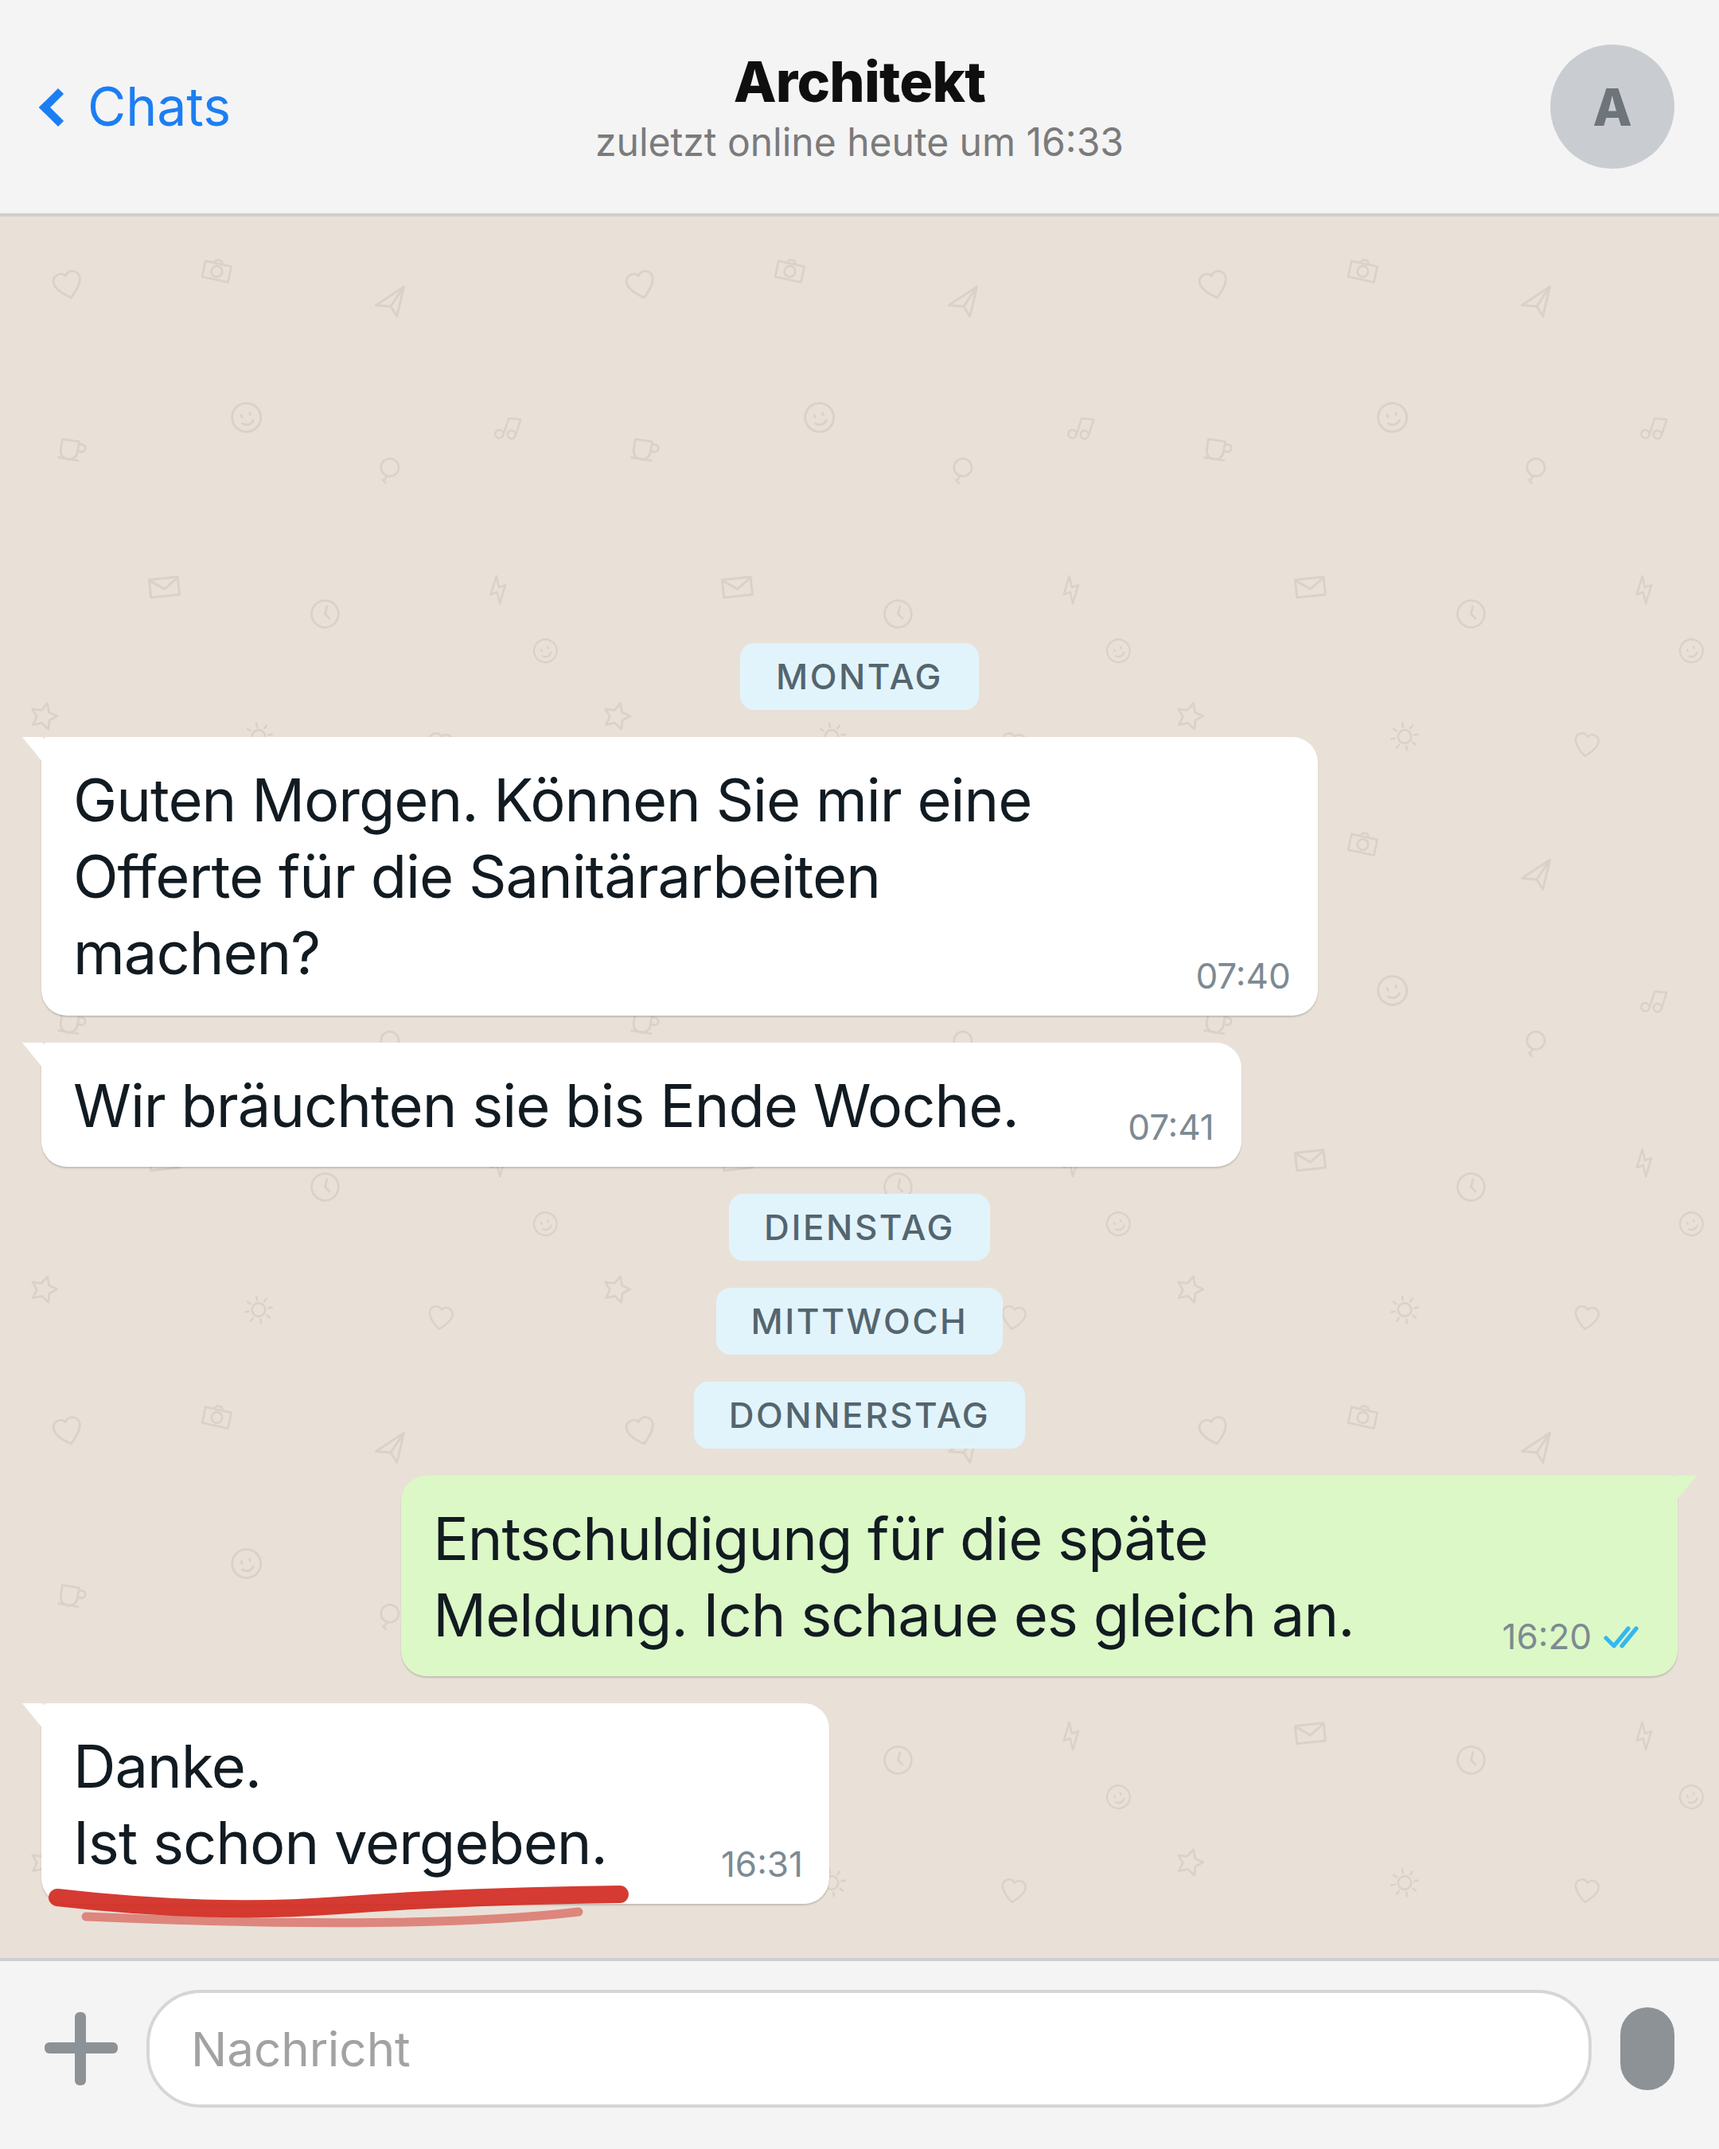
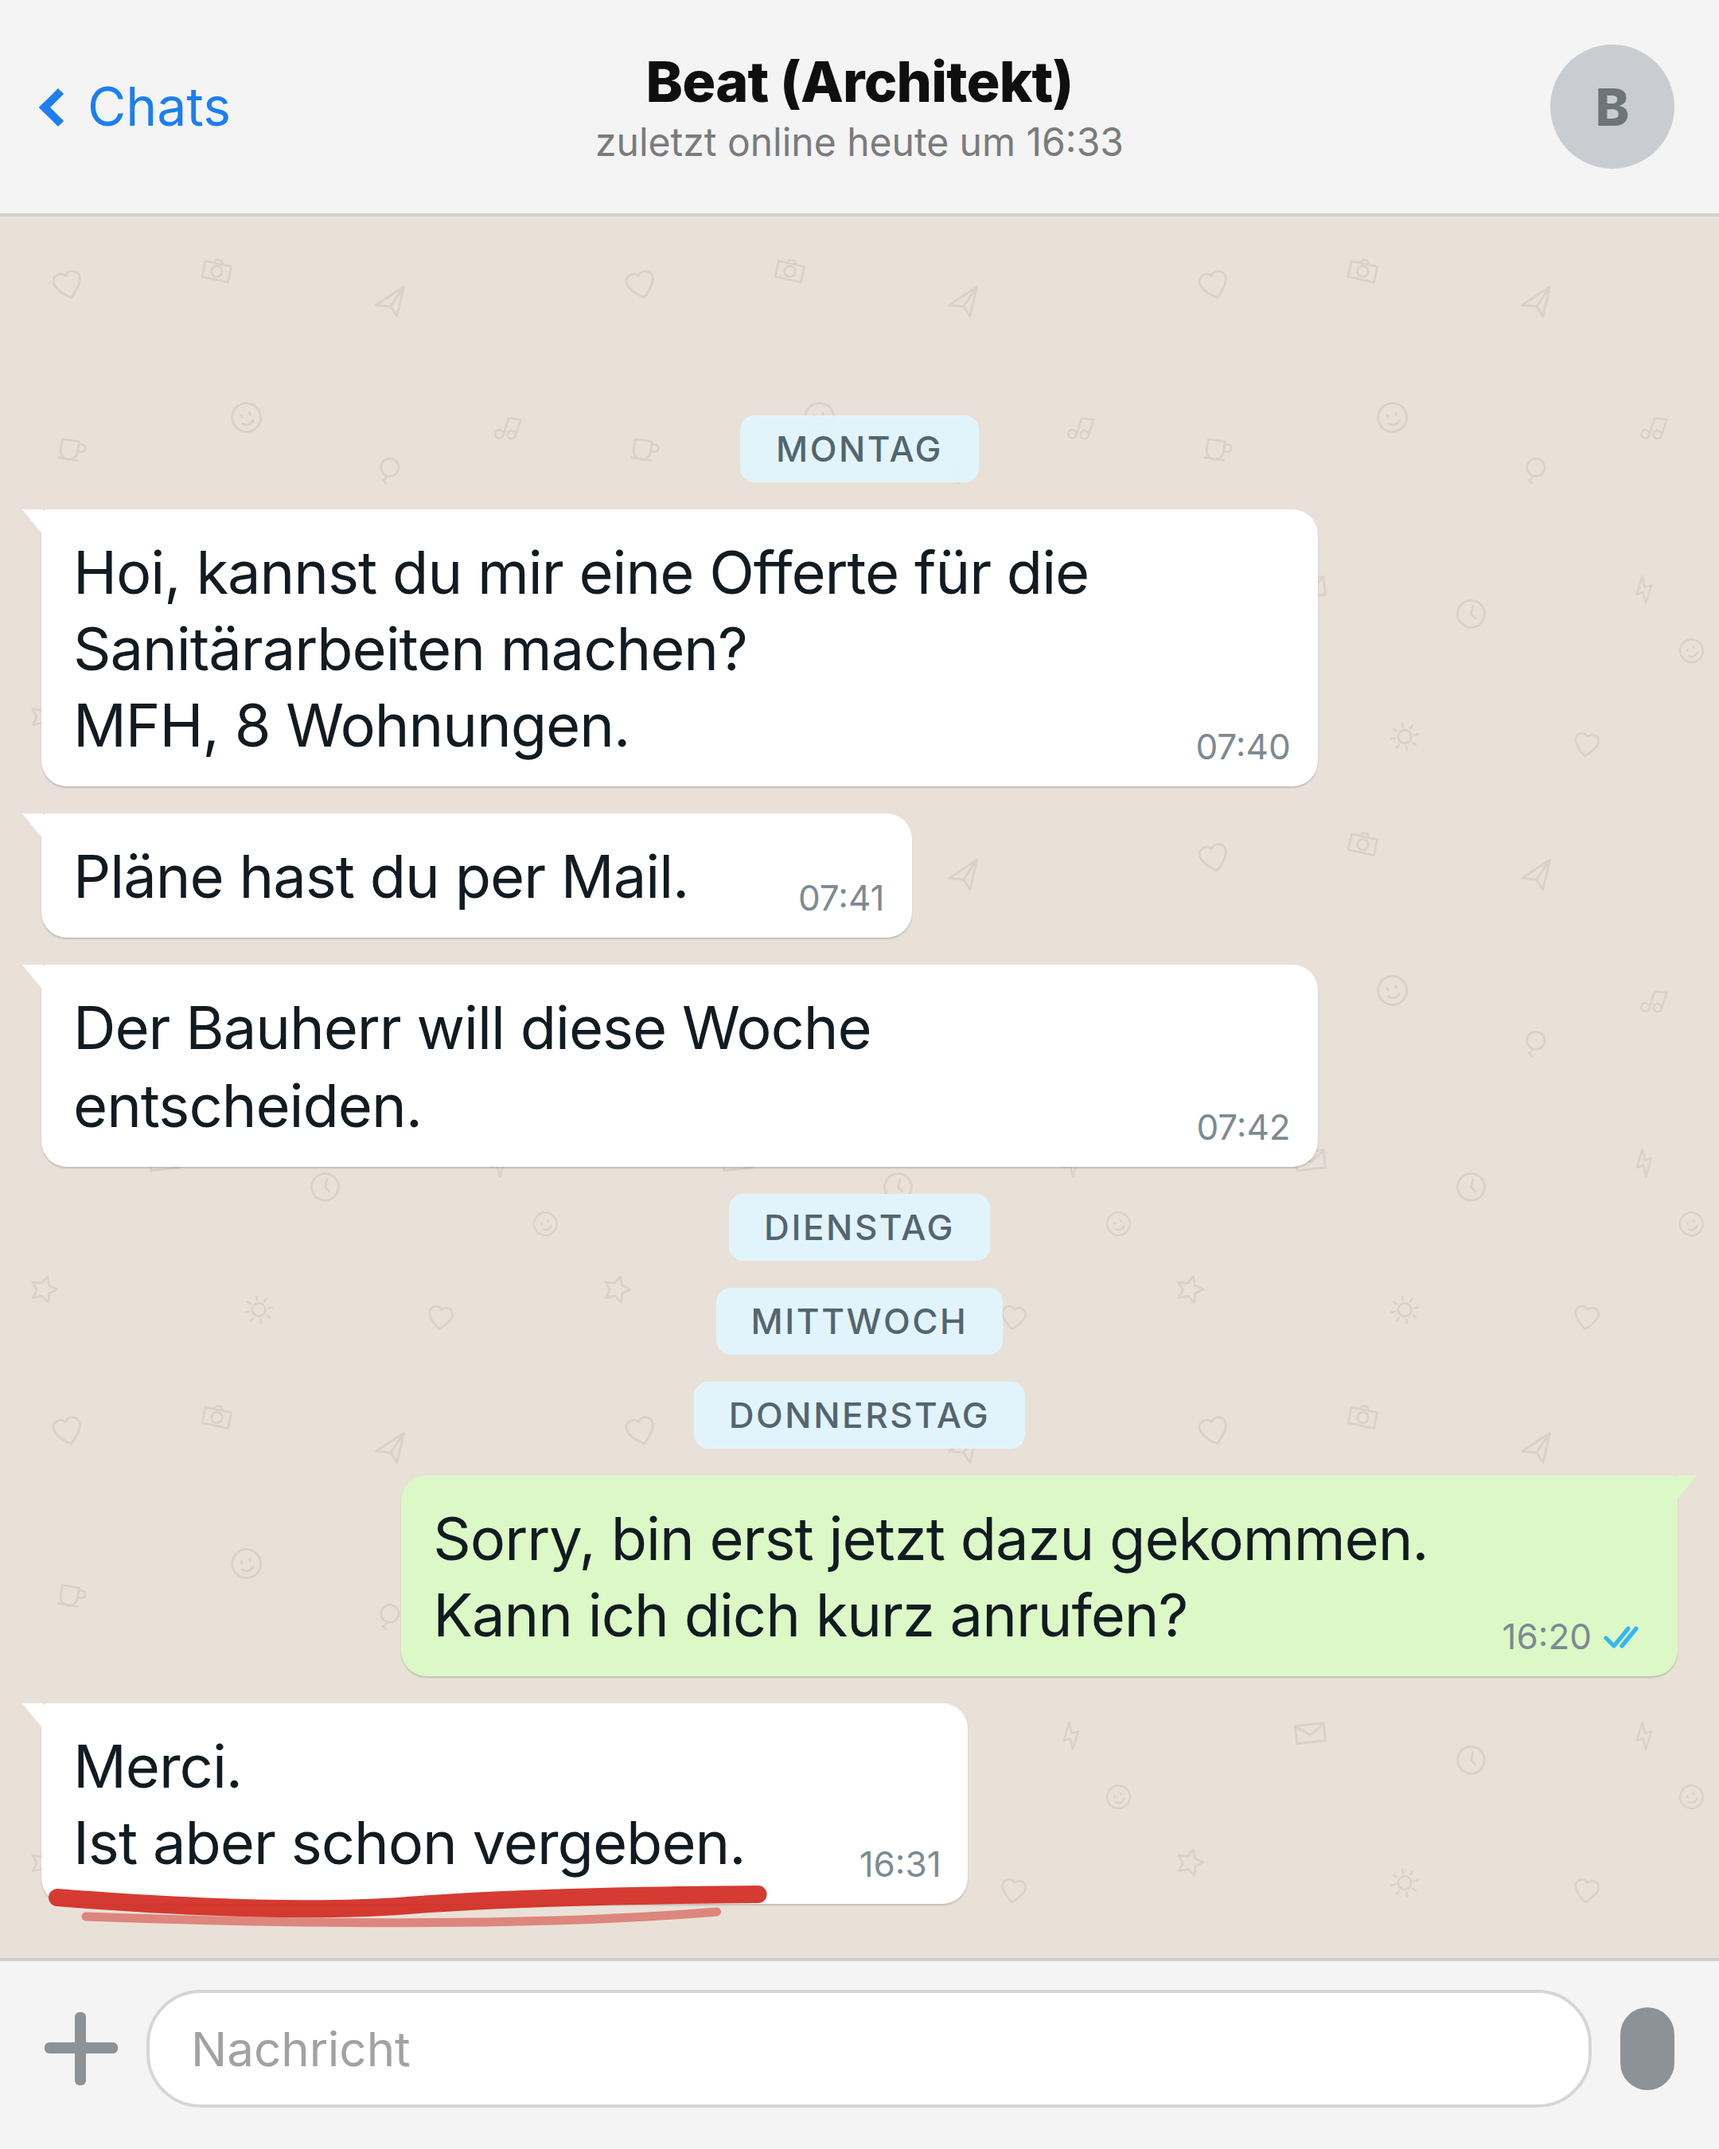
Architekten-Bild auf Du umgestellt und praeziser gemacht
Florian: Architekt und Handwerker kennen sich meistens und duzen sich.
Der Chat klang mit Sie nach jemandem, der die Branche nicht kennt.

- Kontakt heisst jetzt Beat (Architekt)
- Montag drei kurze Nachrichten: Offerte fuer MFH mit 8 Wohnungen,
  Plaene per Mail, Bauherr will diese Woche entscheiden
- Donnerstag: Sorry, bin erst jetzt dazu gekommen, und die Absage mit
  Merci, ist aber schon vergeben
- Regel 35 im Lernprotokoll: Chat-Bilder im Du, Schweizer Ton,
  Insider-Details, aber nichts aus echten Kundengespraechen

Claude-Session: https://claude.ai/code/session_011uqJThEvfyZaZ27wjBcmdt

diff --git a/fotos/bild-architekt.html b/fotos/bild-architekt.html
@@ -52,18 +52,21 @@
 <div class="s">
   <div class="hd">
     <div class="back"><i></i>Chats</div>
-    <div class="ctr"><div class="nm">Architekt</div><div class="on">zuletzt online heute um 16:33</div></div>
-    <div class="av">A</div>
+    <div class="ctr"><div class="nm">Beat (Architekt)</div><div class="on">zuletzt online heute um 16:33</div></div>
+    <div class="av">B</div>
   </div>
 
   <div class="chat" id="chat">
     <div class="chip">Montag</div>
 
-    <div class="b in"><div class="tx">Guten Morgen. Können Sie mir eine Offerte für die Sanitärarbeiten machen?</div>
+    <div class="b in"><div class="tx">Hoi, kannst du mir eine Offerte für die Sanitärarbeiten machen? MFH,&nbsp;8&nbsp;Wohnungen.</div>
       <div class="meta"><span class="tm">07:40</span></div></div>
 
-    <div class="b in"><div class="tx">Wir br&#228;uchten sie bis Ende Woche.</div>
+    <div class="b in"><div class="tx">Pläne hast du per Mail.</div>
       <div class="meta"><span class="tm">07:41</span></div></div>
+
+    <div class="b in"><div class="tx">Der Bauherr will diese Woche entscheiden.</div>
+      <div class="meta"><span class="tm">07:42</span></div></div>
 
 
     <div class="chip">Dienstag</div>
@@ -75,10 +78,10 @@
 
     <div class="chip">Donnerstag</div>
 
-    <div class="b out"><div class="tx">Entschuldigung für die späte Meldung. Ich schaue es gleich an.</div>
+    <div class="b out"><div class="tx">Sorry, bin erst jetzt dazu gekommen. Kann ich dich kurz anrufen?</div>
       <div class="meta"><span class="tm">16:20</span><svg class="ck" viewBox="0 0 30 16"><path d="M2 9l5 5 9-11M12 14l9-11" fill="none" stroke="#34B7F1" stroke-width="2.6" stroke-linecap="round" stroke-linejoin="round"/></svg></div></div>
 
-    <div class="b in" id="last"><div class="tx" id="punch">Danke.<br><span id="u">Ist schon vergeben.</span></div>
+    <div class="b in" id="last"><div class="tx" id="punch">Merci.<br><span id="u">Ist aber schon vergeben.</span></div>
       <div class="meta"><span class="tm">16:31</span></div></div>
   </div>
 

diff --git a/wissen/lernprotokoll.md b/wissen/lernprotokoll.md
@@ -217,6 +217,10 @@ Zweiter Punkt: Der 200er hatte ein Foto, der 250er nicht. Schwacher Beleg, deckt
 31. DER VERLUST IST LIQUIDITAET, NICHT ZINS (Expertenrunde 24.09.2026): Verlockend war, den Schaden in Franken zu rechnen. 19 Tage auf 80'000 Franken zu 5 Prozent sind rund 200 Franken, und die frisst das Zahlungsziel beim Lieferanten fast wieder auf. Eine Zahl, die bei naeherem Hinsehen klein wird, schadet mehr als keine Zahl.
     Der echte Schmerz bei 15 Mitarbeitern ist nicht der Zins, sondern dass Loehne und Material laengst bezahlt sind, waehrend das Geld noch unterwegs ist. Merksatz: bei Buero-Posts nie den Zinsverlust rechnen, sondern zeigen, was schon rausgegangen ist.
 
+35. CHAT-BILDER IM DU UND PRAEZISE (Florian, 29.09.2026): "duzen kennen sich meistens und praeziser". Architekt, Bauleiter, Lieferant und Handwerker kennen sich in der Regel und duzen sich. Ein "Sie" im Chat verraet sofort, dass der Absender die Branche nicht von innen kennt, und dann glaubt der Leser auch dem Rest nicht.
+    Dazu Schweizer Ton in der Chat-Sprache: Hoi, Merci, Sorry. Und Details, die nur ein Insider so schreibt: Objektart (MFH), Anzahl Wohnungen, "Plaene hast du per Mail", der Bauherr, der diese Woche entscheiden will. Lieber drei kurze Nachrichten hintereinander als eine lange, so schreibt man wirklich, und es bricht die Zeilen sauber.
+    Grenze: Nie Details aus einem echten Kundengespraech ins Bild, also keine Adresse, keine echte Wohnungszahl, keine Betraege. Die Praezision muss erfunden-typisch sein, nicht zurueckverfolgbar.
+
 ## Diagnose 120 (Post vom 29.09., "90 Stunden im Excel")
 
 Florian am 29.09.: "schlecht 120". Unter dem Median von 180, ein Sechstel der 700. Bitter, weil es der erste Post aus einer eigenen belegten Quelle war. Die Quelle war gut, der Post hat sie falsch benutzt. Vier Ursachen, nach Schadenswirkung:
